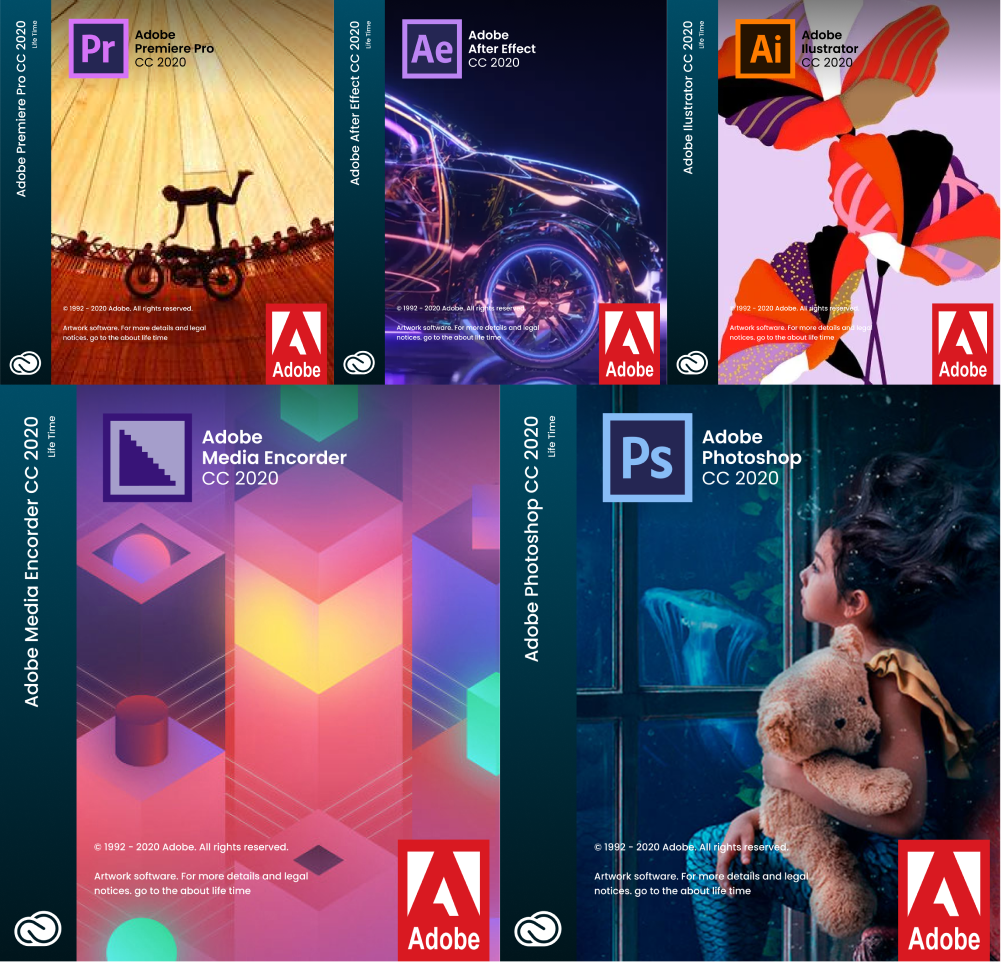
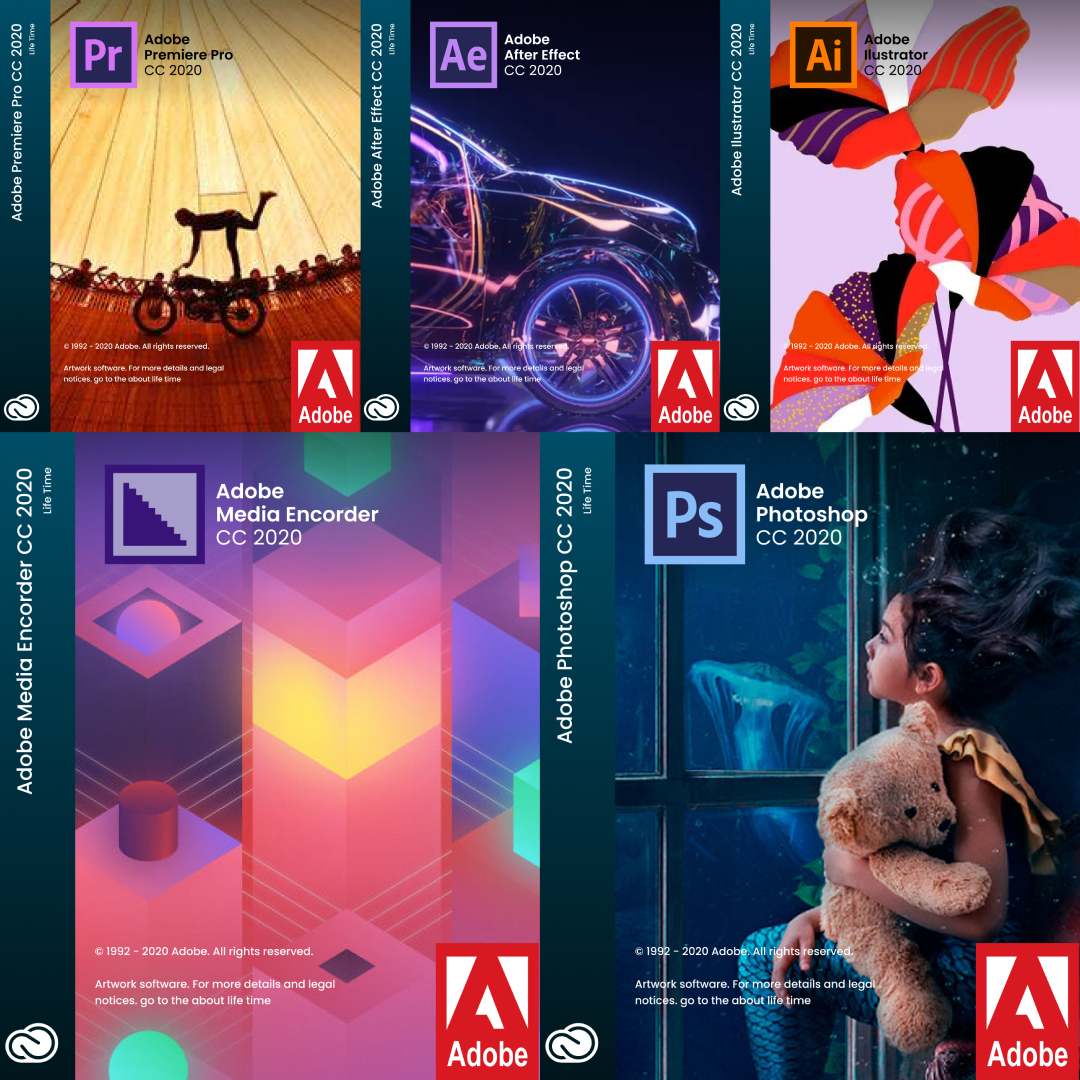
dasd

diff --git a/software-store.html b/software-store.html
@@ -13,7 +13,7 @@
     />
     <meta
       property="og:image"
-      content="https://aheioqhobo.cloudimg.io/v7/_playground-bucket-v2.teleporthq.io_/bf1328a2-cee6-443f-bd21-0ba3b0b34318/de662ed1-0475-422a-b357-5975539c1770?org_if_sml=1&amp;force_format=original"
+      content="https://aheioqhobo.cloudimg.io/v7/_playground-bucket-v2.teleporthq.io_/bf1328a2-cee6-443f-bd21-0ba3b0b34318/b75b78df-d080-4f63-bc34-a2ae85a47b9a?org_if_sml=1&amp;force_format=original"
     />
     <meta name="viewport" content="width=device-width, initial-scale=1.0" />
     <meta charset="utf-8" />
